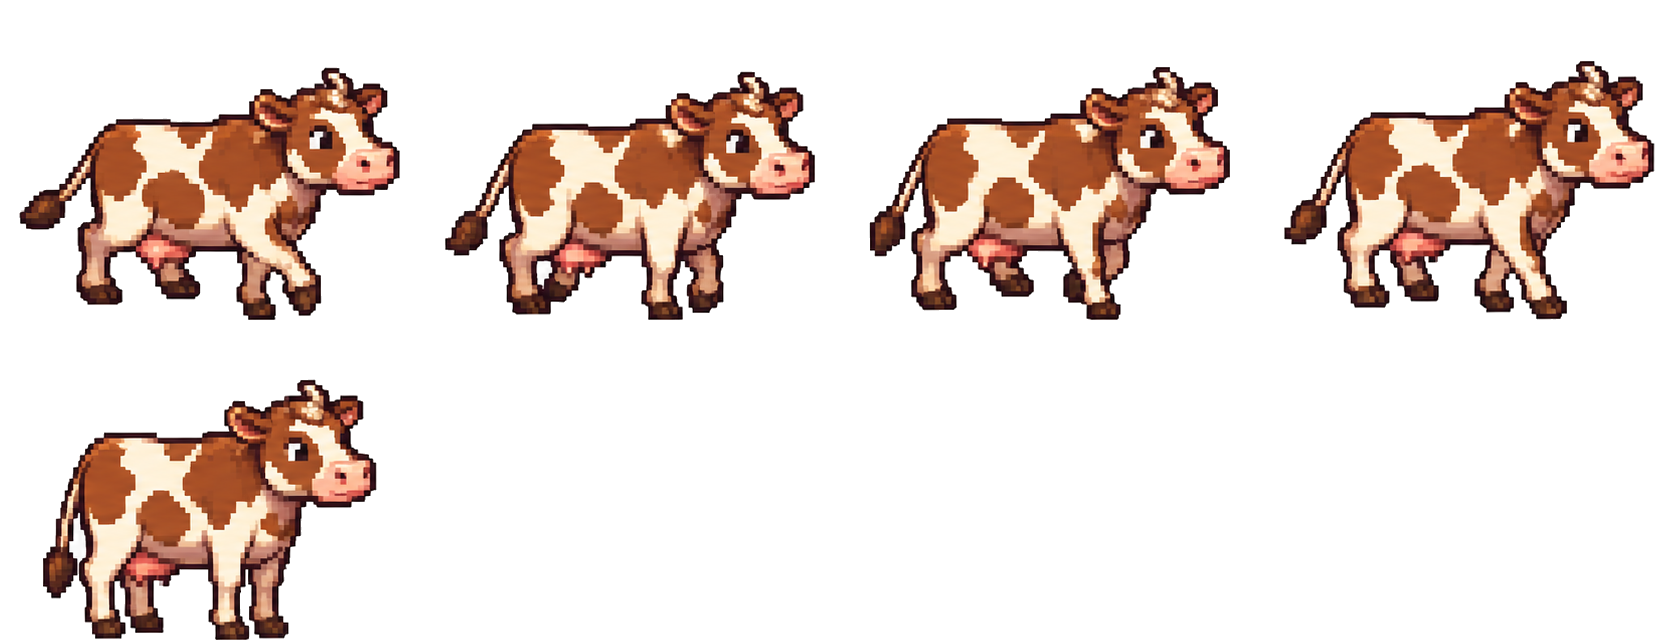
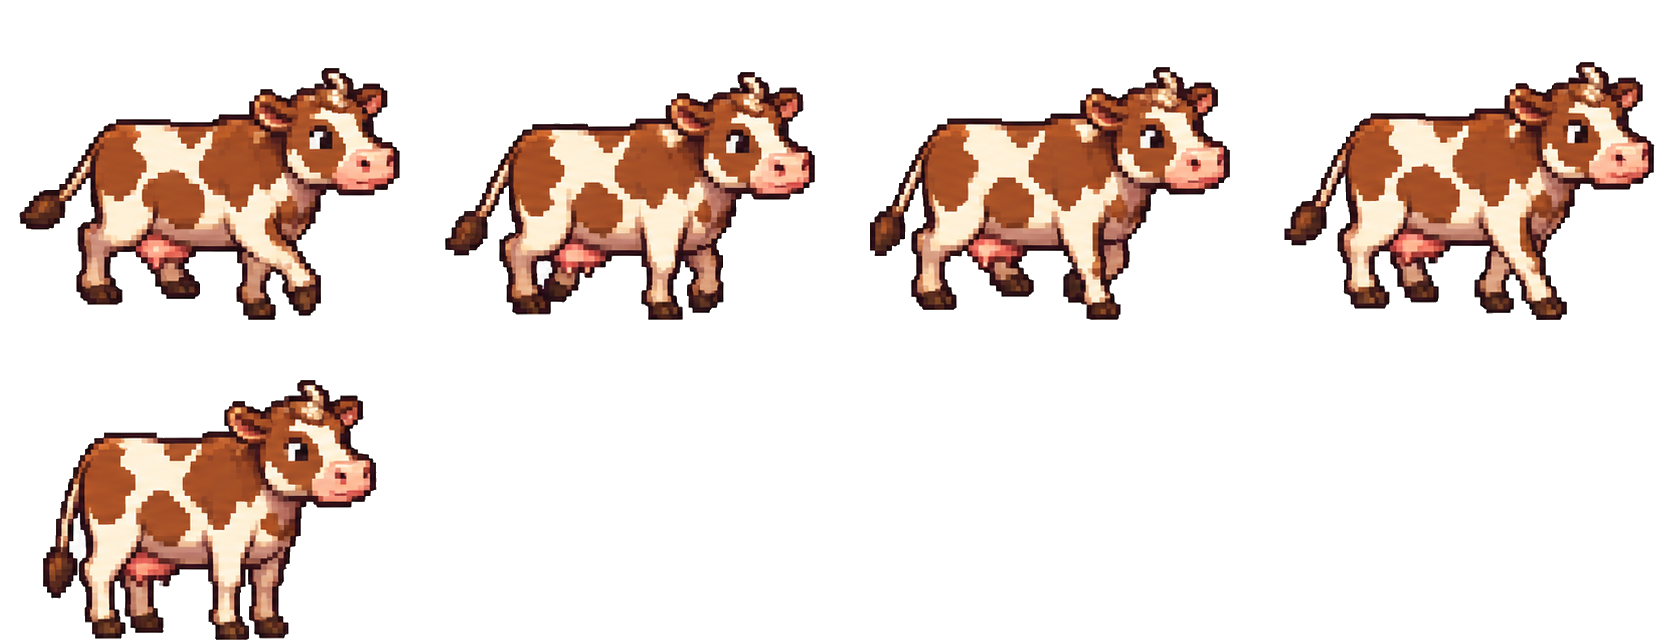
fix: sin orilla blanca en los animales, las decoraciones y los íconos de fondo blanco

diff --git a/tools/arte/procesar.py b/tools/arte/procesar.py
@@ -18,13 +18,17 @@ import numpy as np
 from PIL import Image, ImageFilter
 
 import arte
-from arte import RAIZ, cargar, fondo_cerca, construir_atlas, guardar, hacer_repetible, hacer_repetible_h, quitar_fondo, recortar, separar_objetos
+from arte import RAIZ, cargar, fondo_cerca, construir_atlas, guardar, hacer_repetible, hacer_repetible_h, quitar_fondo, recortar, separar_objetos, sin_orilla_blanca
 
 ASSETS = RAIZ / "assets"
 
 
-def objetos(fuente: str, nombres: list[str | None], destino: str, area_min: int = 400, huecos: bool = True) -> dict[str, Image.Image]:
+def objetos(fuente: str, nombres: list[str | None], destino: str, area_min: int = 400, huecos: bool = True,
+            orilla_blanca: bool = False) -> dict[str, Image.Image]:
+    """`orilla_blanca`: el dibujo venía sobre fondo blanco; se le quita la orilla clara del contorno."""
     rgba = quitar_fondo(cargar(fuente), huecos=huecos)
+    if orilla_blanca:
+        rgba = sin_orilla_blanca(rgba)
     encontrados = separar_objetos(rgba, area_min=area_min)
     if len(encontrados) != len(nombres):
         raise SystemExit(f"{fuente}: se esperaban {len(nombres)} objetos y se encontraron {len(encontrados)}")
@@ -787,10 +791,10 @@ def decoraciones():
     """Fase 3: decoraciones de la granja (sprite en el valle e ícono del panel) y el guajolote del corral."""
     # Orden en que separar_objetos encuentra las piezas de la hoja.
     nombres = ["espantapajaros", "farol", "cempasuchil", "banca", "olla_barro", "bebedero"]
-    for nombre, pieza in objetos("granja_decoraciones.png", nombres, "maps/valle/decoraciones").items():
+    for nombre, pieza in objetos("granja_decoraciones.png", nombres, "maps/valle/decoraciones", orilla_blanca=True).items():
         guardar(pieza, ASSETS / "ui/granja" / f"{nombre}.png")
     # Guajolote: 4 cuadros caminando y uno quieto, como la cabra.
-    rgba = quitar_fondo(cargar("granja_guajolote.png"))
+    rgba = sin_orilla_blanca(quitar_fondo(cargar("granja_guajolote.png")))
     cuadros = [recortar(rgba, o) for o in separar_objetos(rgba)]
     destino = ASSETS / "characters/animales/valle"
     construir_atlas(
@@ -809,7 +813,7 @@ def animales_granja():
         if not (arte.FUENTE / f"granja_{nombre}.png").exists():
             continue
         # Sin quitar huecos: lo blanco de adentro (manchas de la vaca, lana) es del animal.
-        rgba = quitar_fondo(cargar(f"granja_{nombre}.png"), huecos=False)
+        rgba = sin_orilla_blanca(quitar_fondo(cargar(f"granja_{nombre}.png"), huecos=False))
         cuadros = [recortar(rgba, o) for o in separar_objetos(rgba)]
         construir_atlas(
             cuadros, {"idle": ([4], 1.0, True), "caminar": ([0, 1, 2, 3], 7.0, True)},
@@ -823,7 +827,7 @@ def animales_granja():
             primero = Image.open(atlas).convert("RGBA").crop((0, 0) + cuadro)
             guardar(primero.crop(primero.getbbox()), ASSETS / "ui/granja" / f"{nombre}.png")
     if (arte.FUENTE / "granja_iconos3.png").exists():
-        objetos("granja_iconos3.png", ["abono", "lana"], "ui/granja", huecos=False)
+        objetos("granja_iconos3.png", ["abono", "lana"], "ui/granja", huecos=False, orilla_blanca=True)
 
 
 GRUPOS = {"animales_granja": animales_granja, "decoraciones": decoraciones, "granja": granja, "animales_valle": animales_valle, "casa": casa, "guardianes": guardianes, "valle": valle, "zona1": zona1, "personajes": personajes, "ui": ui, "filtro": puzzle_filtro, "zona2": zona2, "bitacora": bitacora, "zona3": zona3}

diff --git a/tools/arte/arte.py b/tools/arte/arte.py
@@ -136,6 +136,27 @@ def separar_objetos(rgba: np.ndarray, area_min: int = 400, union: int = 6) -> li
     return cajas
 
 
+def sin_orilla_blanca(rgba: np.ndarray, pasadas: int = 2) -> np.ndarray:
+    """Quita los pixeles blancos o grises claros que quedan pegados al contorno cuando el dibujo venía
+    sobre fondo blanco (se ven como una orilla blanca). Solo los de afuera del contorno: lo blanco
+    que está dentro del dibujo, rodeado de su línea oscura (manchas de la vaca, lana), se queda."""
+    rgba = rgba.copy()
+    rgb = rgba[..., :3].astype(int)
+    blanco = (rgb.min(-1) > 200) & ((rgb.max(-1) - rgb.min(-1)) < 30)
+    for _ in range(pasadas):
+        vacio = rgba[..., 3] == 0
+        junto = np.zeros_like(vacio)
+        junto[1:] |= vacio[:-1]
+        junto[:-1] |= vacio[1:]
+        junto[:, 1:] |= vacio[:, :-1]
+        junto[:, :-1] |= vacio[:, 1:]
+        quitar = blanco & junto & ~vacio
+        if not quitar.any():
+            break
+        rgba[quitar, 3] = 0
+    return rgba
+
+
 def recortar(rgba: np.ndarray, objeto: dict) -> Image.Image:
     """Recorta solo los pixeles del objeto (sin pedazos de objetos vecinos)."""
     x0, y0, x1, y1 = objeto["caja"]
